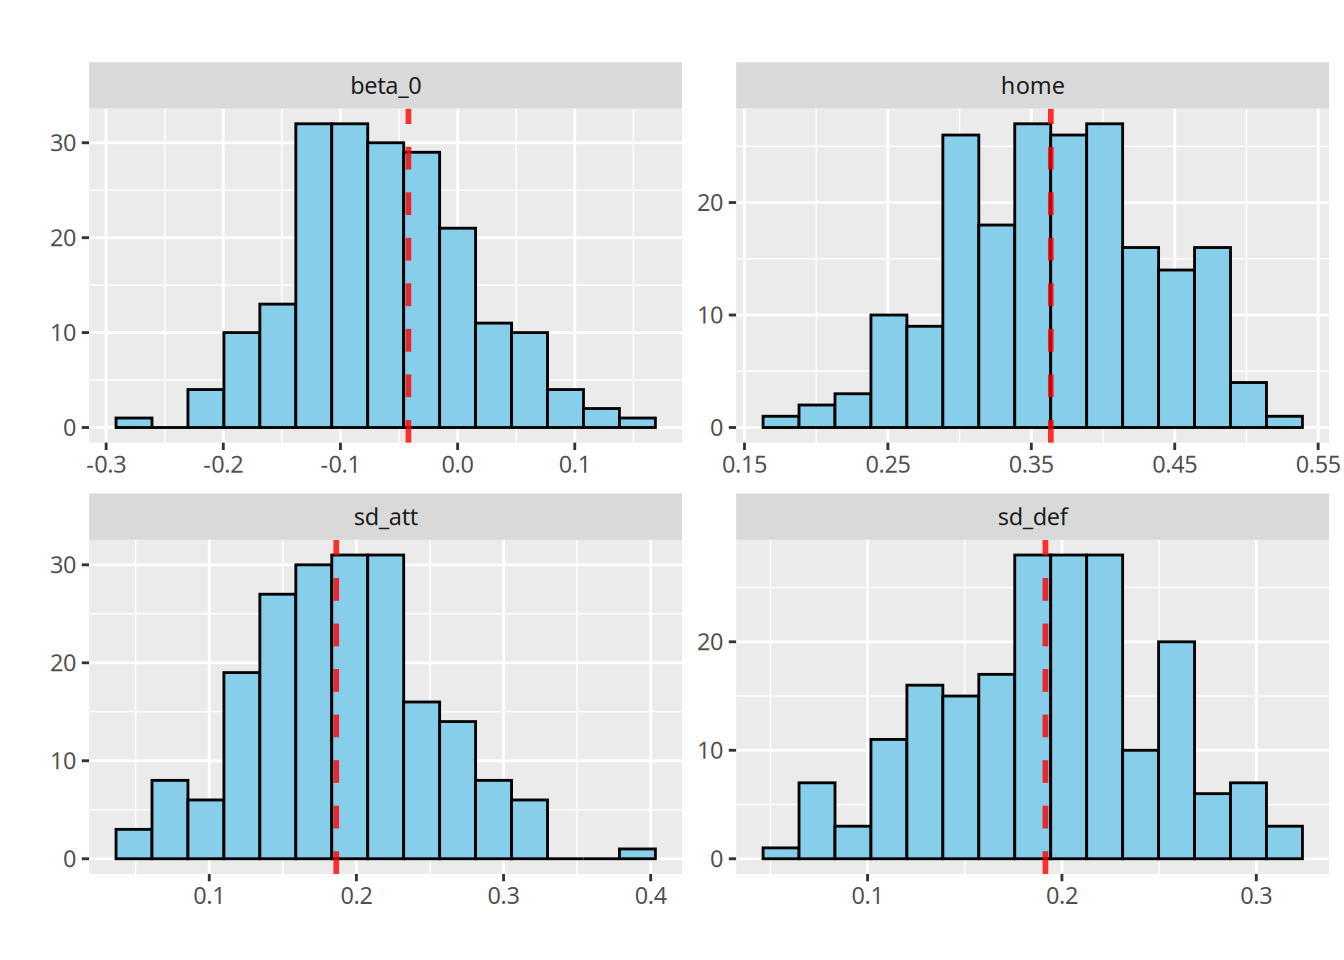
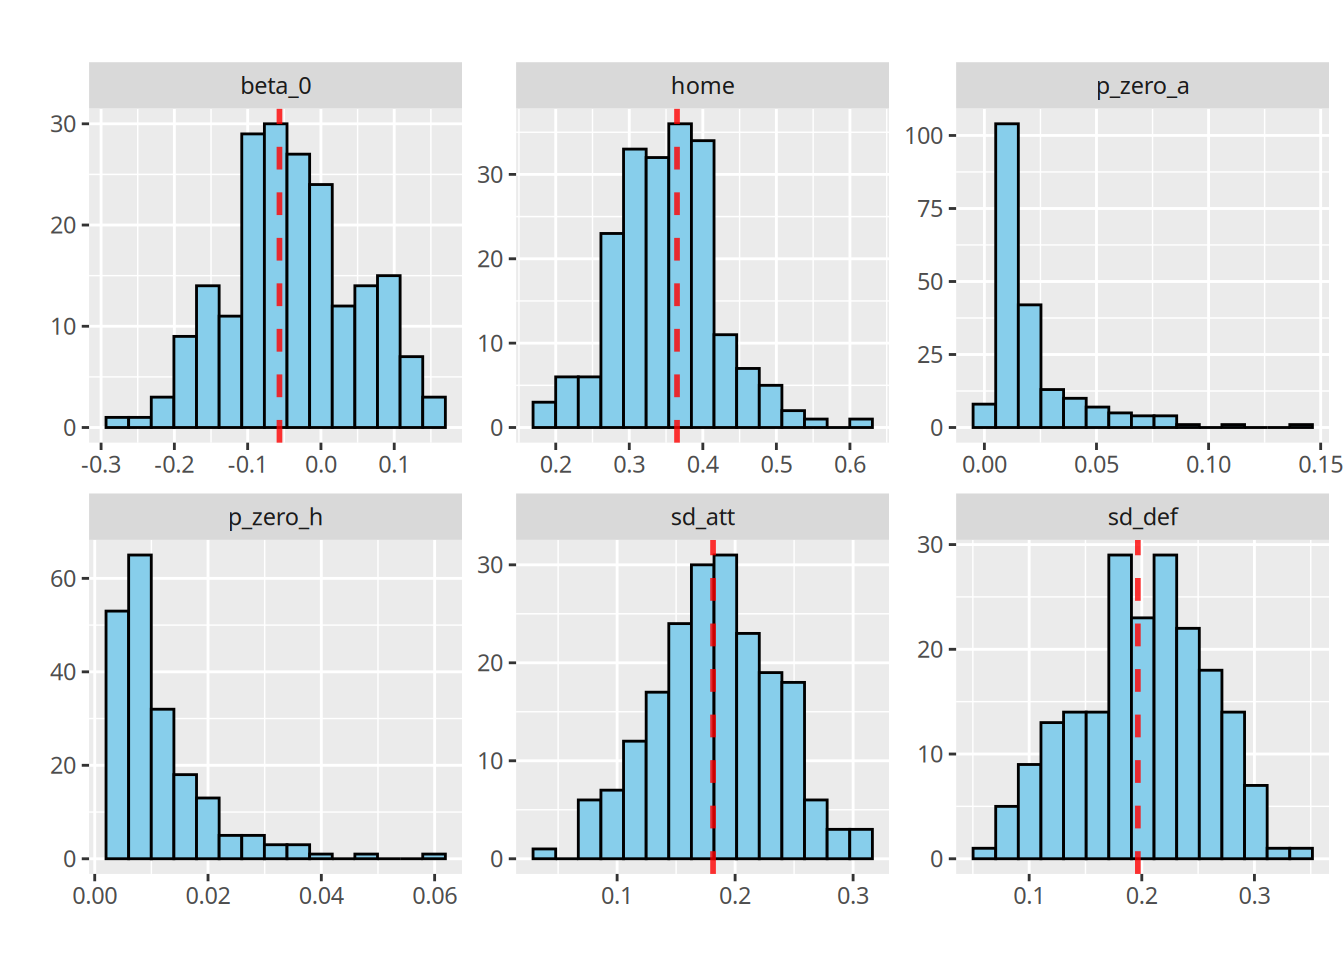
feat: novos plots estimados com hiperparametros melhores

diff --git a/models/plot_summary.html b/models/plot_summary.html
@@ -60,8 +60,8 @@ ul.task-list li input[type="checkbox"] {
 
 </header>
 
-<section id="modelo" class="level2">
-<h2 class="anchored" data-anchor-id="modelo">Modelo</h2>
+<section id="cenários" class="level2">
+<h2 class="anchored" data-anchor-id="cenários">Cenários</h2>
 <div class="tabset-margin-container"></div><div class="panel-tabset">
 <ul class="nav nav-tabs" role="tablist"><li class="nav-item" role="presentation"><a class="nav-link active" id="tabset-1-1-tab" data-bs-toggle="tab" data-bs-target="#tabset-1-1" role="tab" aria-controls="tabset-1-1" aria-selected="true" href="">Poisson</a></li><li class="nav-item" role="presentation"><a class="nav-link" id="tabset-1-2-tab" data-bs-toggle="tab" data-bs-target="#tabset-1-2" role="tab" aria-controls="tabset-1-2" aria-selected="false" href="">Binomial Negativa</a></li><li class="nav-item" role="presentation"><a class="nav-link" id="tabset-1-3-tab" data-bs-toggle="tab" data-bs-target="#tabset-1-3" role="tab" aria-controls="tabset-1-3" aria-selected="false" href="">Poisson Inflada</a></li></ul>
 <div class="tab-content">
@@ -74,16 +74,16 @@ ul.task-list li input[type="checkbox"] {
 </div>
 </div>
 </section>
-<section id="dados-binomial-negativa-modelo-poisson" class="level3">
-<h3 class="anchored" data-anchor-id="dados-binomial-negativa-modelo-poisson">Dados Binomial Negativa Modelo Poisson</h3>
+<section id="dados-poisson-modelo-binomial-negativa" class="level3">
+<h3 class="anchored" data-anchor-id="dados-poisson-modelo-binomial-negativa">Dados Poisson Modelo Binomial Negativa</h3>
 <div class="cell">
 <div class="cell-output-display">
 <p><img src="plot_summary_files/figure-html/unnamed-chunk-3-1.png" class="img-fluid" width="672"></p>
 </div>
 </div>
 </section>
-<section id="dados-poisson-com-zero-inflado-modelo-poisson" class="level3">
-<h3 class="anchored" data-anchor-id="dados-poisson-com-zero-inflado-modelo-poisson">Dados Poisson com Zero Inflado Modelo Poisson</h3>
+<section id="dados-poisson-modelo-poisson-com-zero-inflado" class="level3">
+<h3 class="anchored" data-anchor-id="dados-poisson-modelo-poisson-com-zero-inflado">Dados Poisson Modelo Poisson com Zero Inflado</h3>
 <div class="cell">
 <div class="cell-output-display">
 <p><img src="plot_summary_files/figure-html/unnamed-chunk-4-1.png" class="img-fluid" width="672"></p>
@@ -92,8 +92,8 @@ ul.task-list li input[type="checkbox"] {
 </section>
 </div>
 <div id="tabset-1-2" class="tab-pane" role="tabpanel" aria-labelledby="tabset-1-2-tab">
-<section id="dados-poisson-modelo-binomial-negativa" class="level3">
-<h3 class="anchored" data-anchor-id="dados-poisson-modelo-binomial-negativa">Dados Poisson Modelo Binomial Negativa</h3>
+<section id="dados-binomial-negativa-modelo-poisson" class="level3">
+<h3 class="anchored" data-anchor-id="dados-binomial-negativa-modelo-poisson">Dados Binomial Negativa Modelo Poisson</h3>
 <div class="cell">
 <div class="cell-output-display">
 <p><img src="plot_summary_files/figure-html/unnamed-chunk-5-1.png" class="img-fluid" width="672"></p>
@@ -108,8 +108,8 @@ ul.task-list li input[type="checkbox"] {
 </div>
 </div>
 </section>
-<section id="dados-poisson-com-zero-inflado-modelo-binomial-negativa" class="level3">
-<h3 class="anchored" data-anchor-id="dados-poisson-com-zero-inflado-modelo-binomial-negativa">Dados Poisson com Zero Inflado Modelo Binomial Negativa</h3>
+<section id="dados-binomial-negativa-modelo-poisson-com-zero-inflado" class="level3">
+<h3 class="anchored" data-anchor-id="dados-binomial-negativa-modelo-poisson-com-zero-inflado">Dados Binomial Negativa Modelo Poisson com Zero Inflado</h3>
 <div class="cell">
 <div class="cell-output-display">
 <p><img src="plot_summary_files/figure-html/unnamed-chunk-7-1.png" class="img-fluid" width="672"></p>
@@ -118,16 +118,16 @@ ul.task-list li input[type="checkbox"] {
 </section>
 </div>
 <div id="tabset-1-3" class="tab-pane" role="tabpanel" aria-labelledby="tabset-1-3-tab">
-<section id="dados-poisson-modelo-poisson-com-zero-inflado" class="level3">
-<h3 class="anchored" data-anchor-id="dados-poisson-modelo-poisson-com-zero-inflado">Dados Poisson Modelo Poisson com Zero Inflado</h3>
+<section id="dados-poisson-com-zero-inflado-modelo-poisson" class="level3">
+<h3 class="anchored" data-anchor-id="dados-poisson-com-zero-inflado-modelo-poisson">Dados Poisson com Zero Inflado Modelo Poisson</h3>
 <div class="cell">
 <div class="cell-output-display">
 <p><img src="plot_summary_files/figure-html/unnamed-chunk-8-1.png" class="img-fluid" width="672"></p>
 </div>
 </div>
 </section>
-<section id="dados-binomial-negativa-modelo-poisson-com-zero-inflado" class="level3">
-<h3 class="anchored" data-anchor-id="dados-binomial-negativa-modelo-poisson-com-zero-inflado">Dados Binomial Negativa Modelo Poisson com Zero Inflado</h3>
+<section id="dados-poisson-com-zero-inflado-modelo-binomial-negativa" class="level3">
+<h3 class="anchored" data-anchor-id="dados-poisson-com-zero-inflado-modelo-binomial-negativa">Dados Poisson com Zero Inflado Modelo Binomial Negativa</h3>
 <div class="cell">
 <div class="cell-output-display">
 <p><img src="plot_summary_files/figure-html/unnamed-chunk-9-1.png" class="img-fluid" width="672"></p>
